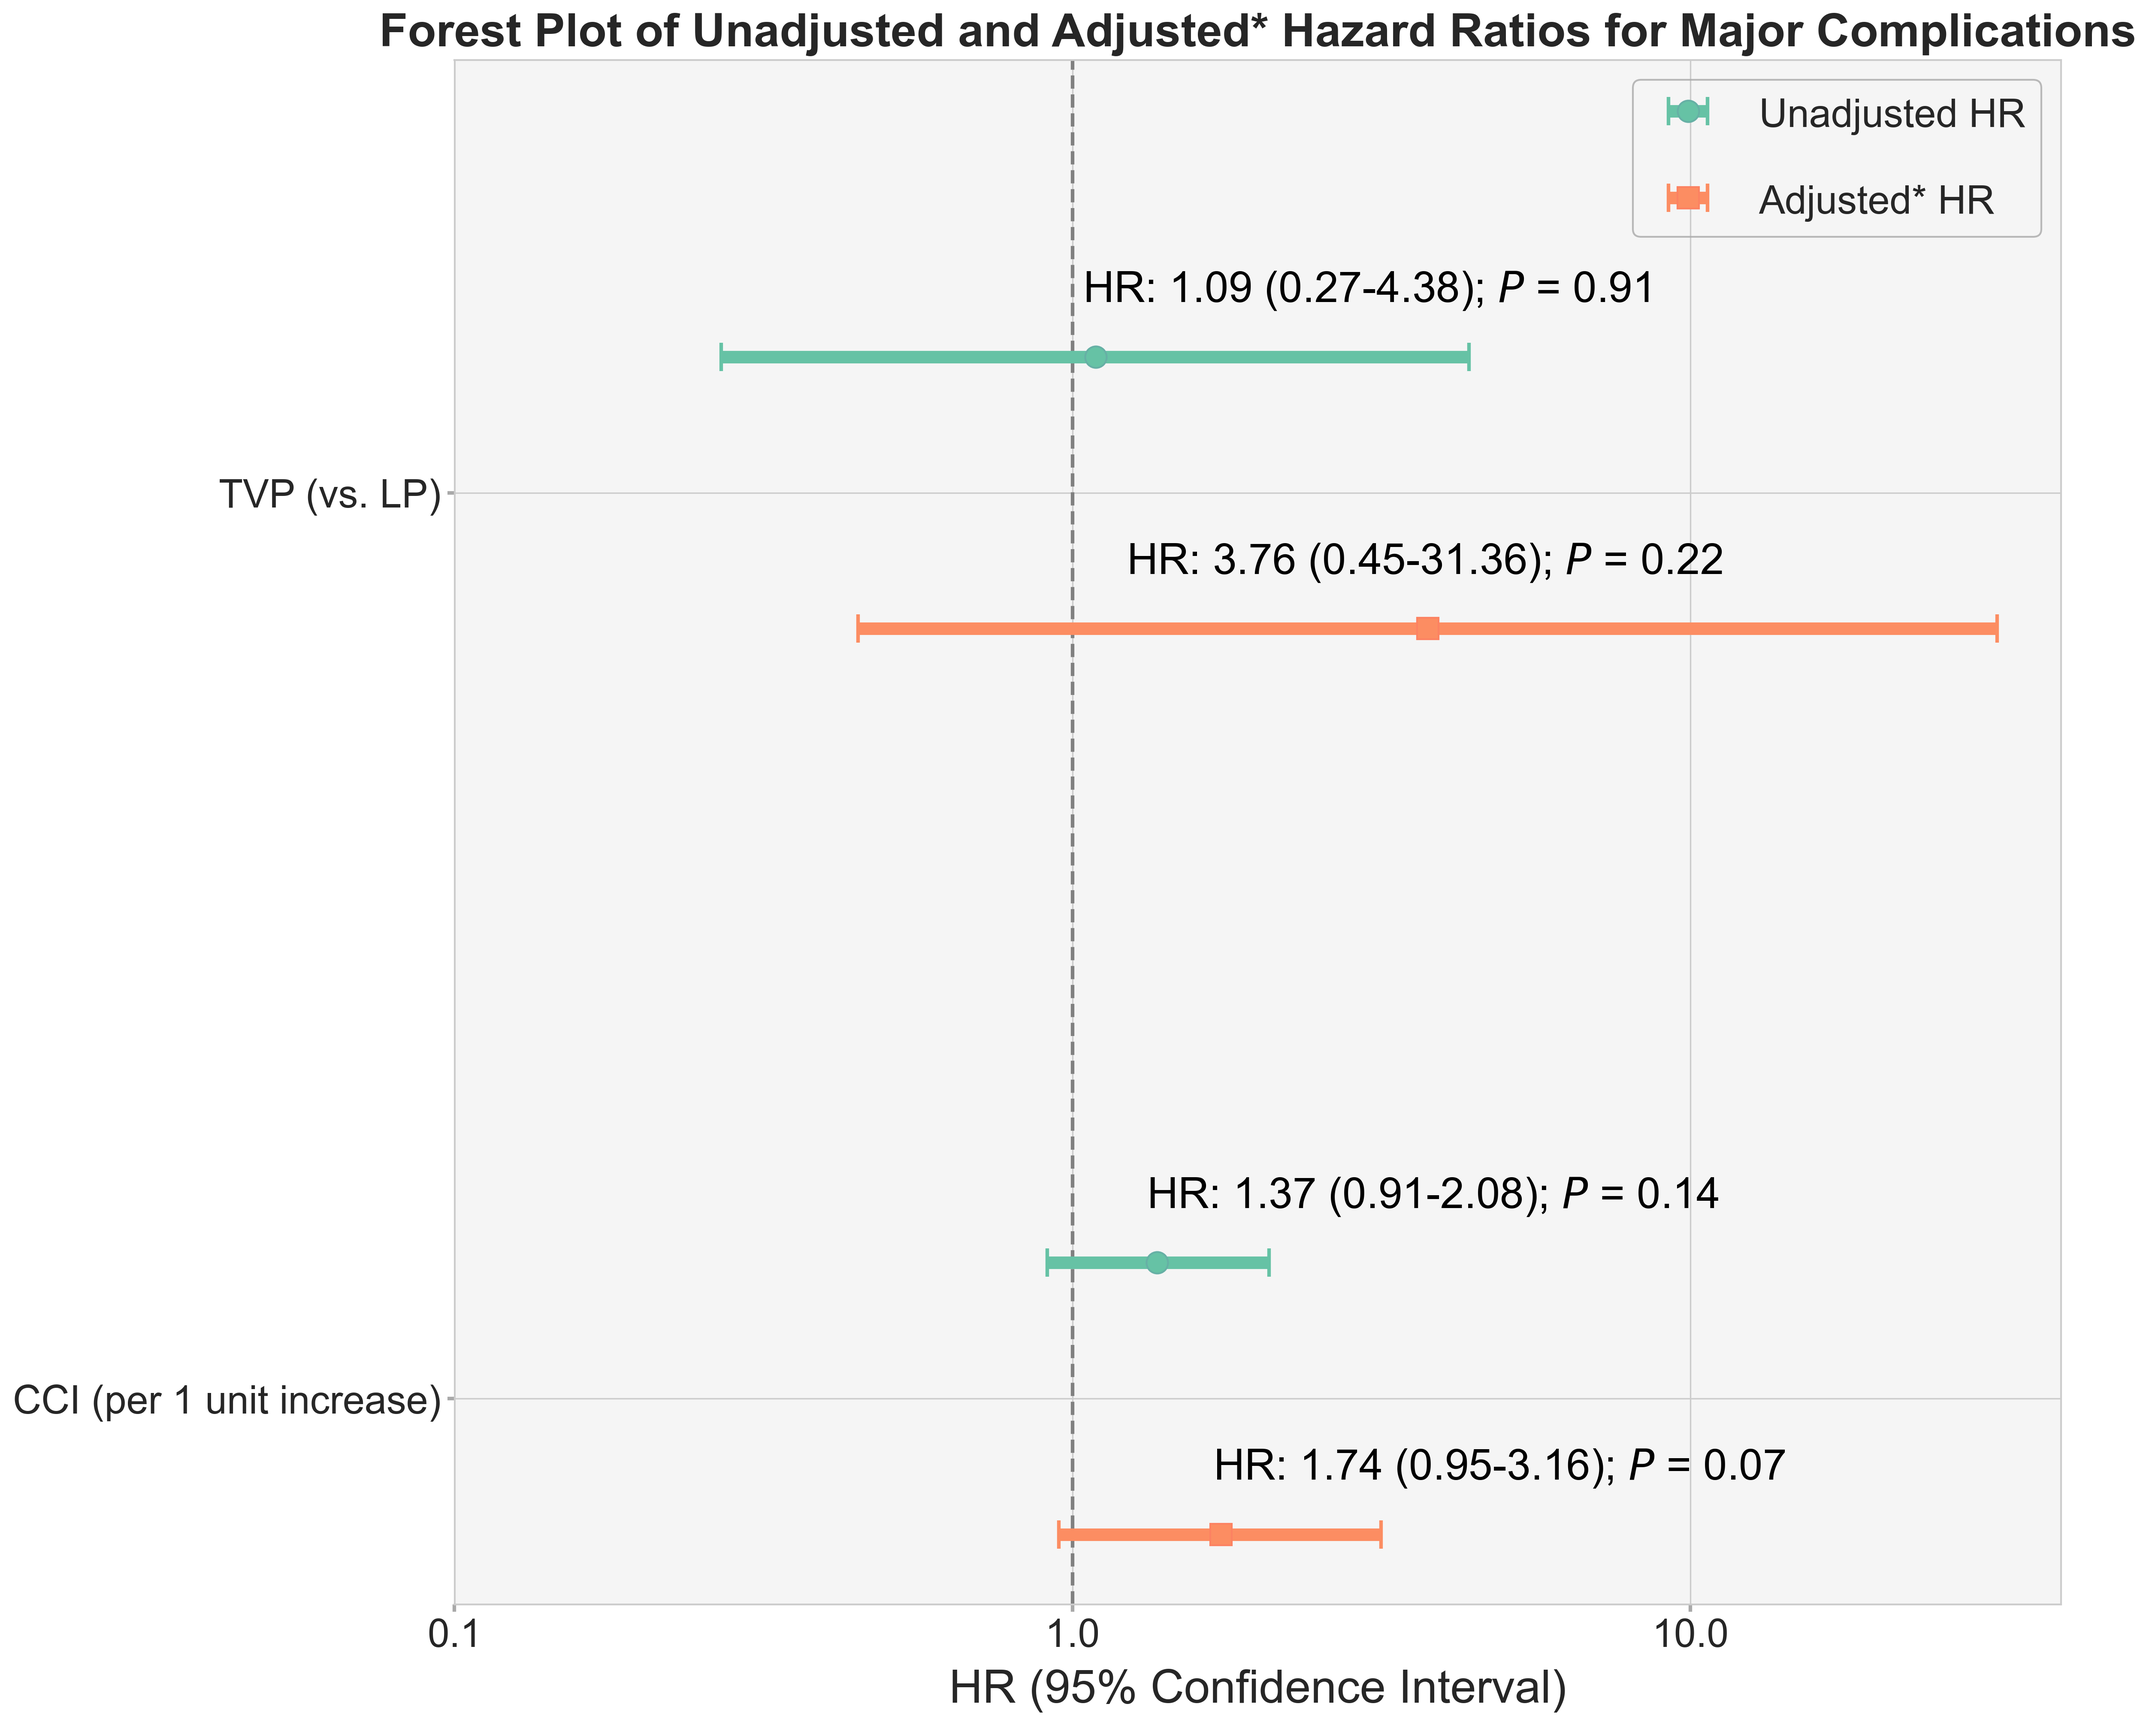
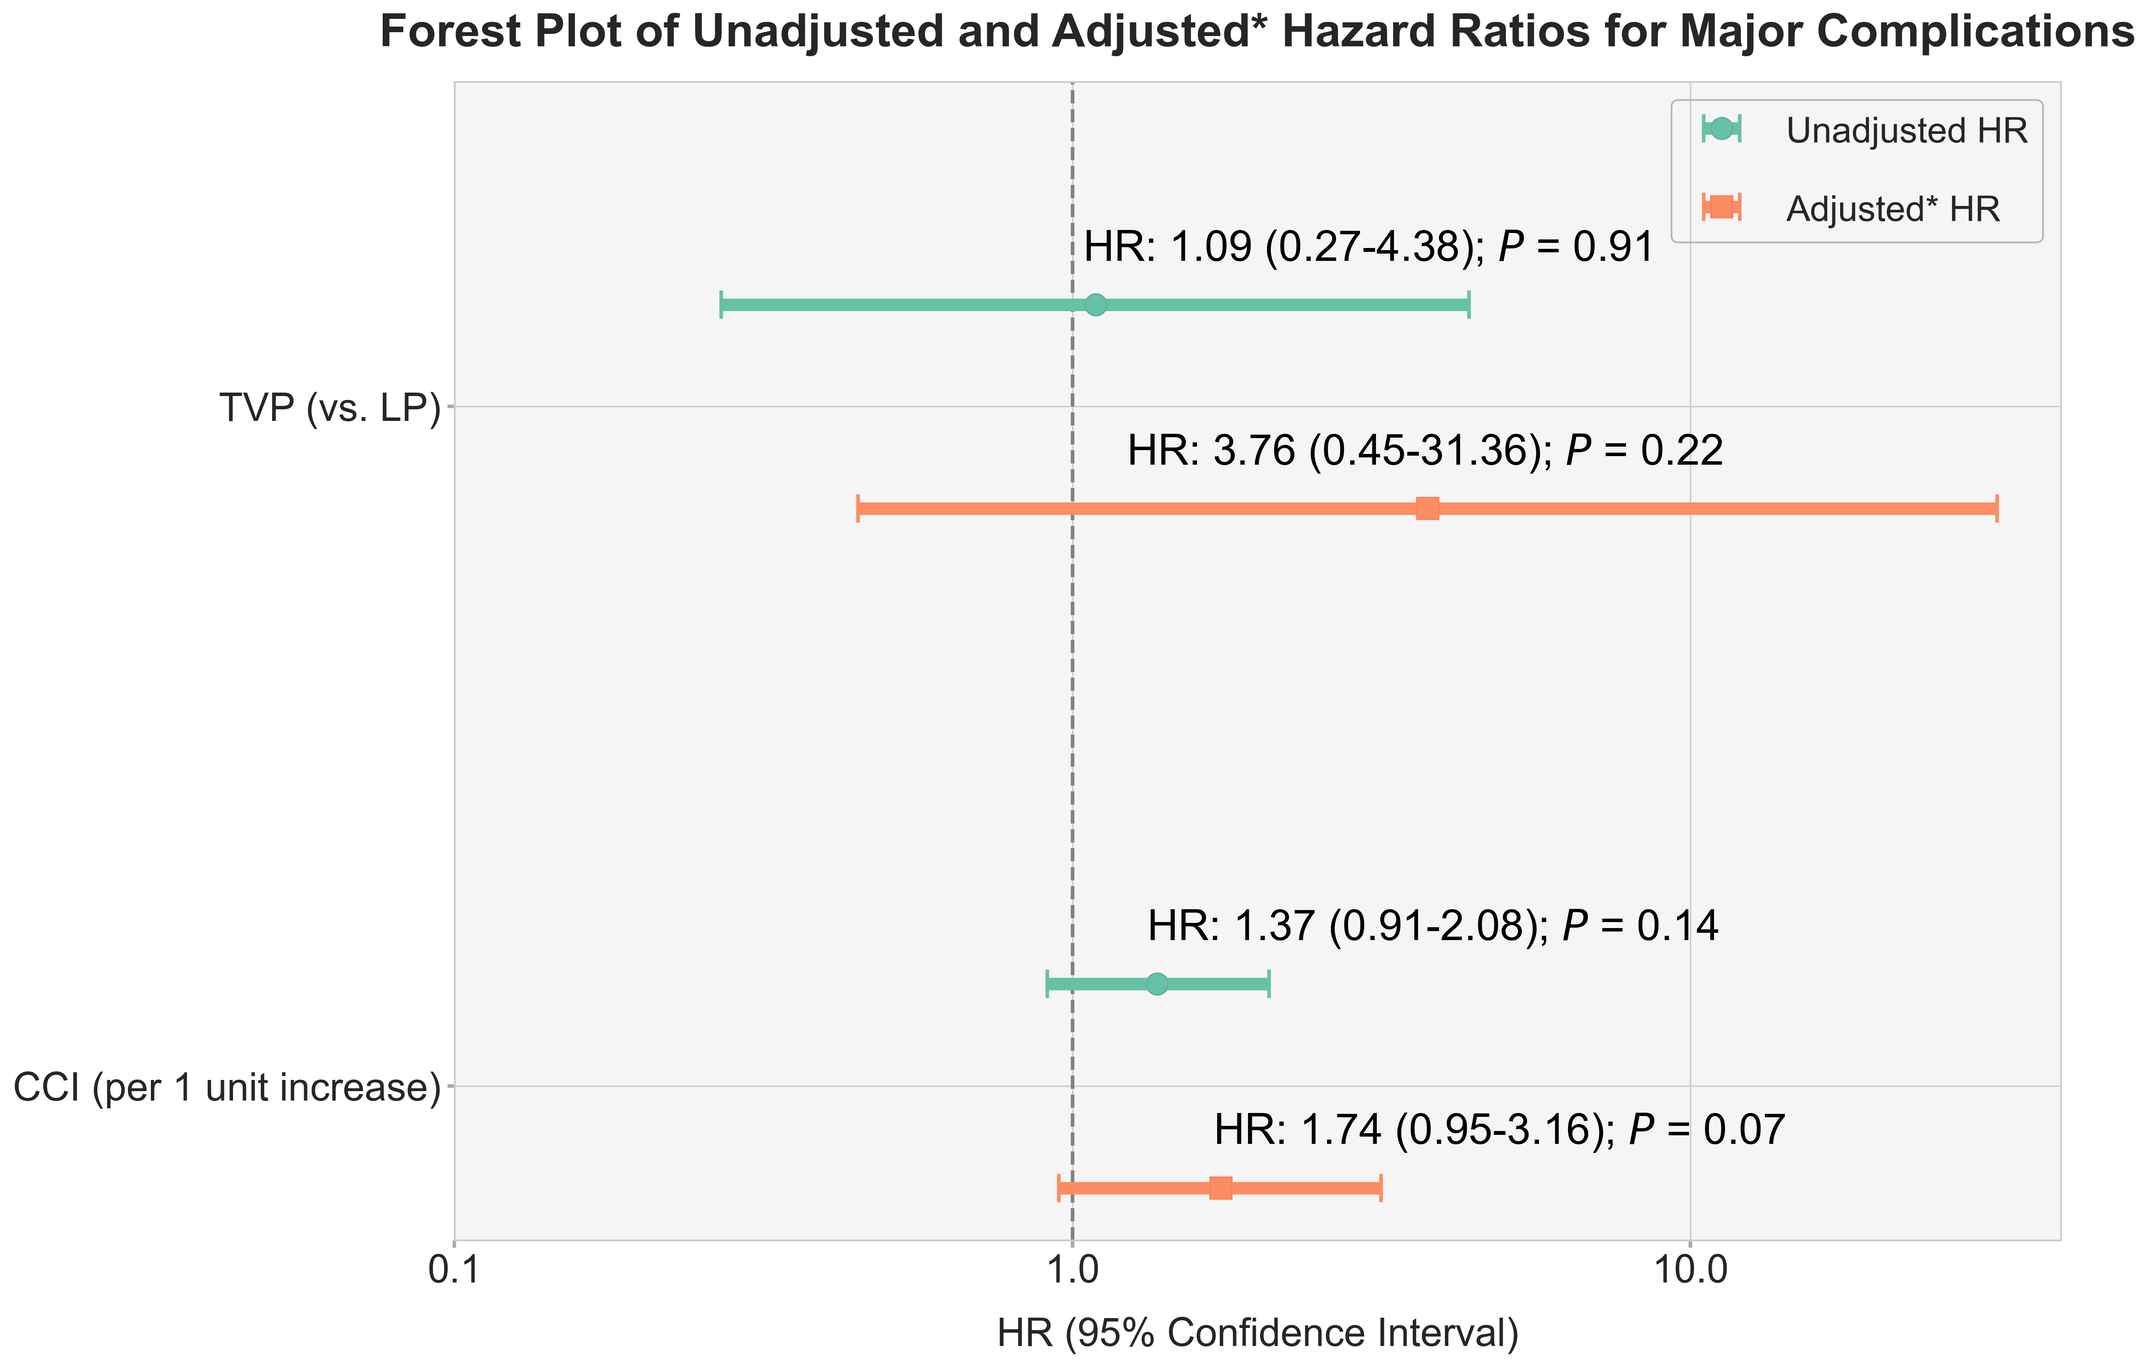
y

diff --git a/playground/Micra/forest.py b/playground/Micra/forest.py
@@ -29,7 +29,7 @@ color1 = colors[0]
 color2 = colors[1]
 
 # --- 2. Create the Plot ---
-fig, ax = plt.subplots(figsize=(16, 16))
+fig, ax = plt.subplots(figsize=(16, 12))
 y_positions = np.arange(len(df))+1
 offset = 0.15
 ax.axvline(x=1, color='gray', linestyle='--', linewidth=2)
@@ -48,7 +48,7 @@ adj_hr_values = df['HR_adj'].copy()
 adj_lower_ci = df['Lower_CI_adj'].copy()
 adj_upper_ci = df['Upper_CI_adj'].copy()
 tvp_index = df[df['display_label'] == 'TVP (vs. LP)'].index[0]
-tvp_y_pos = y_positions[tvp_index] + offset # Corrected y-position for the arrow
+tvp_y_pos = y_positions[tvp_index] 
 tvp_upper_ci_original = adj_upper_ci[tvp_index]
 
 #if pd.notna(tvp_upper_ci_original) and tvp_upper_ci_original > X_LIMIT:
@@ -84,8 +84,8 @@ for i, row in df.iterrows():
             ha=ha_adj, va='bottom', fontsize=24, color='black')
 
 # --- 5. Finalize Plot Aesthetics ---
-ax.set_xlabel('HR (95% Confidence Interval)', fontsize=26, labelpad=8)
-ax.set_title('Forest Plot of Unadjusted and Adjusted* Hazard Ratios for Major Complications', fontsize=26, weight='bold',pad=8)
+ax.set_xlabel('HR (95% Confidence Interval)', fontsize=22, labelpad=15)
+ax.set_title('Forest Plot of Unadjusted and Adjusted* Hazard Ratios for Major Complications', fontsize=26, weight='bold',pad=20)
 ax.tick_params(labelsize=22, width=2, length=4, color = 'darkgray')
 ax.set_yticks(y_positions)
 ax.set_yticklabels(df['display_label'])
@@ -94,10 +94,10 @@ ax.set_xscale('log')
 ax.set_xticks([0.1,1,10])
 ax.get_xaxis().set_major_formatter(plt.ScalarFormatter())
 ax.legend(loc='upper right', frameon=True, edgecolor='darkgray',
-          fontsize=22,facecolor='none',labelspacing=1.2,
+          fontsize=20,facecolor='none',labelspacing=1.2,
           handleheight=1,handlelength=2,borderaxespad=0.5)
 
 # NEW: Adjust layout to give more space on the left
 plt.subplots_adjust(left=0.2, right=0.98, top=0.9, bottom=0.15)
 plt.savefig('playground/Micra/forest.png', dpi=300, bbox_inches='tight')
-plt.show()
+#plt.show()

diff --git a/playground/Micra/LP_parameters.py b/playground/Micra/LP_parameters.py
@@ -12,7 +12,7 @@ pd.set_option('display.max_colwidth', None)
 
 
 def summarize_continuous(series):
-    return f"{series.mean():.1f} ± {series.std():.1f} ({series.min():.1f}-{series.max():.1f})"
+    return f"Mean: {series.mean():.1f} ± {series.std():.1f} ({series.min():.1f}-{series.max():.1f}), Median: {series.median():.1f} (IQR: {series.quantile(0.25):.1f}-{series.quantile(0.75):.1f})"
 
 def summarize_categorical(series):
     counts = series.value_counts(dropna=False)
